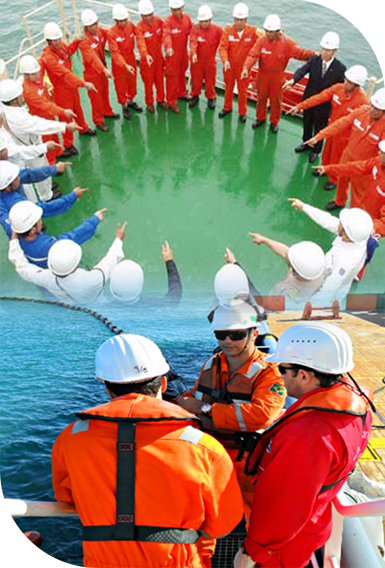
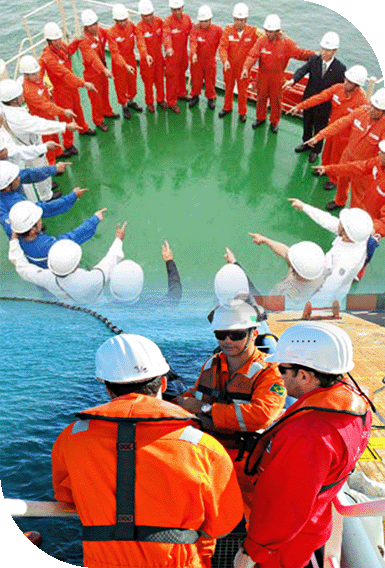
size down for slower internet

diff --git a/recruiting.html b/recruiting.html
@@ -138,7 +138,7 @@
 
                             <div class="row">
                                 <div class="col-lg-6">
-                                    <img src="assets/images/office-2.png" alt="" style="padding: 0">
+                                    <img src="assets/images/office-2.jpg" alt="" style="padding: 0">
                                 </div>
                                 <div class="col-lg-6">
                                     <h2>Why Join <strong style="color: #077bbd">KP Ocean Inc.</strong>?</h2>
